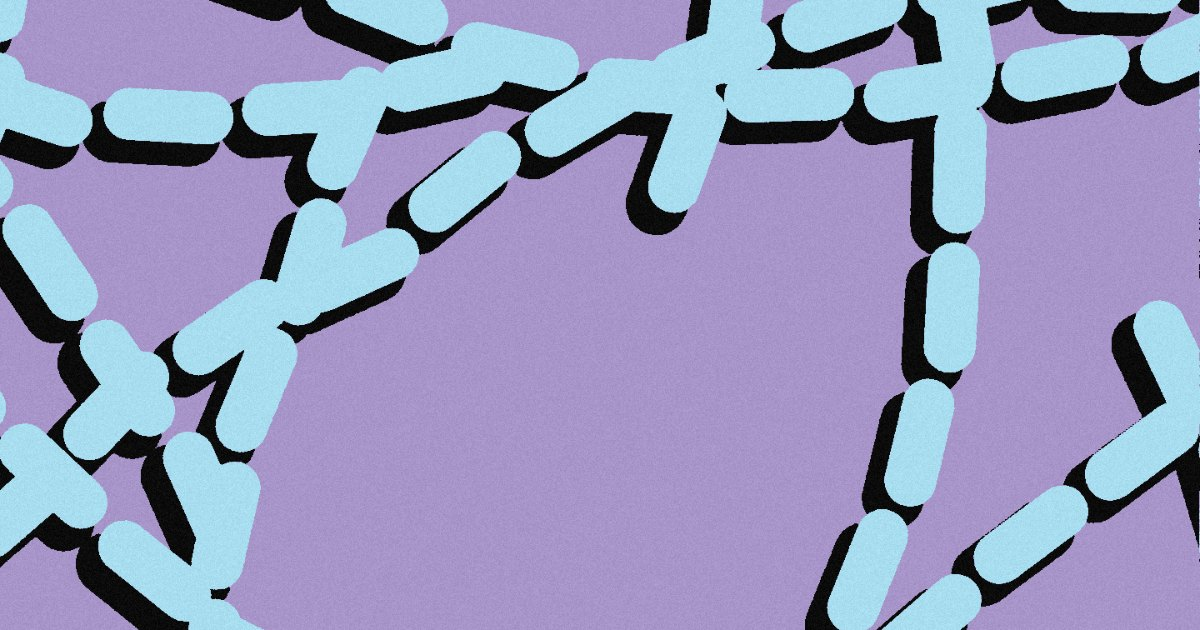
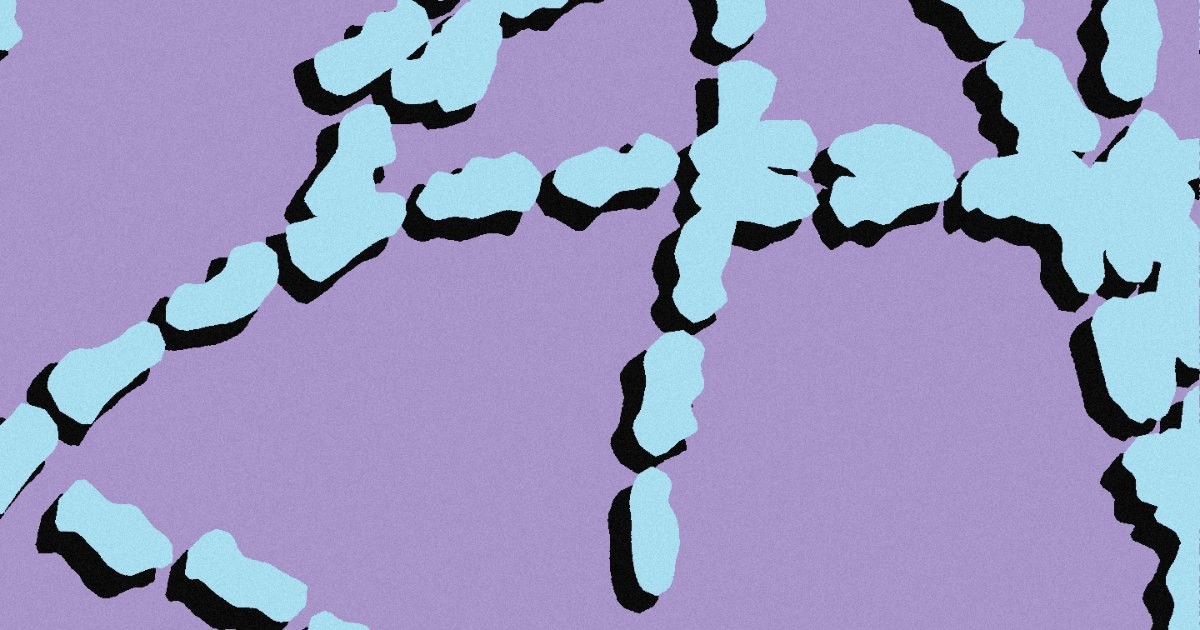
Draw Strand's rods as brush strokes rather than capsules
A stroked line can only ever be one width the whole way along, so the rods
came out machined. Each rod is now filled as its own outline, with the two
edges walked down the axis separately so the shape is never symmetric about
its own middle, ends that are not alike, and a small nudge off the chain's
axis. A Roughness control runs the whole thing from clean capsules to torn.

Claude-Session: https://claude.ai/code/session_01Hb5jk9z6h4o1AzZNFzskh6

diff --git a/strand/index.html b/strand/index.html
@@ -494,7 +494,8 @@ input[type=range]{accent-color:var(--ink)}
     <details class="grp"><summary>Rods</summary><div class="grp-b"><div class="pr"><div class="top"><span class="k">Thickness</span><span class="v" id="thickVal">42%</span></div><div class="track"><input type="range" id="thick" min="0" max="1" step="0.01" value="0.42"></div></div>
         <div class="pr"><div class="top"><span class="k">Rod length</span><span class="v" id="rodVal">50%</span></div><div class="track"><input type="range" id="rod" min="0" max="1" step="0.01" value="0.5"></div></div>
         <div class="pr"><div class="top"><span class="k">Notch</span><span class="v" id="notchVal">18%</span></div><div class="track"><input type="range" id="notch" min="0" max="1" step="0.01" value="0.18"></div></div>
-        <div class="note">Rods are laid end to end along the chain. Notch is the hair left between them: at nothing they fuse into one ribbon, wound up they separate into beads.</div></div></details>
+        <div class="pr"><div class="top"><span class="k">Roughness</span><span class="v" id="roughVal">55%</span></div><div class="track"><input type="range" id="rough" min="0" max="1" step="0.01" value="0.55"></div></div>
+        <div class="note">Rods are laid end to end along the chain. Notch is the hair left between them: at nothing they fuse into one ribbon, wound up they separate into beads. Roughness swells and pinches each rod along its length: at nothing they are clean capsules, wound up they are brush strokes.</div></div></details>
     <details class="grp"><summary>Print</summary><div class="grp-b"><div class="pr"><div class="top"><span class="k">Off-register</span><span class="v" id="offsetVal">50%</span></div><div class="track"><input type="range" id="offset" min="0" max="1" step="0.01" value="0.5"></div></div>
         <div class="pr"><div class="top"><span class="k">Plate spread</span><span class="v" id="edgeVal">35%</span></div><div class="track"><input type="range" id="edge" min="0" max="1" step="0.01" value="0.35"></div></div>
         <div class="pr"><div class="top"><span class="k">Grain</span><span class="v" id="grainVal">42%</span></div><div class="track"><input type="range" id="grain" min="0" max="1" step="0.01" value="0.42"></div></div>
@@ -607,7 +608,7 @@ const PALETTES=[
 const S={
   seed:4, ratio:"3:4",
   count:8, len:22, wander:0.6, branch:0.22,
-  thick:0.42, rod:0.5, notch:0.18,
+  thick:0.42, rod:0.5, notch:0.18, rough:0.55,
   offset:0.5, edge:0.35, grain:0.42,
   pal:PALETTES[0].slice(),
   motion:{on:false,mode:"drift",amount:0.6,fps:12,frames:36},
@@ -671,8 +672,7 @@ function rodsS(aspect){
     let {x,y,a,left,d}=c;
     while(left-->0 && rods.length<ROD_CAP){
       const ca=Math.cos(a), sa=Math.sin(a);
-      const hx=ca*seg/2, hy=sa*seg/2;
-      rods.push([x-hx,y-hy,x+hx,y+hy]);
+      rods.push([x,y,a,seg,(rnd()*9973)|0]);
       const nx=x+ca*step, ny=y+sa*step;
       x=nx; y=ny;
       a+=(rnd()-0.5)*S.wander*0.9;
@@ -695,6 +695,43 @@ function rodsS(aspect){
      back the wrong one made every chain a single fat blob */
   rodCache={rods,wide:wid,fw,fh}; rodKey=key;
   return rodCache;
+}
+
+/* A rod is drawn as its own outline rather than as a stroked line, because a
+   stroke can only ever be one width the whole way along and comes out looking
+   machined. The two edges are walked down the axis separately, each with its
+   own wobble, so the shape is never symmetric about its own middle — that
+   lopsidedness is most of what reads as laid down by hand rather than
+   computed. The ends are not alike either: one is stubbed off where the brush
+   landed, the other drags out where it lifted. At Roughness zero all of it
+   falls away and it is a plain capsule again. */
+function rodPath(g,x,y,a,seg,sd,wid,rough,grow){
+  /* the rod is also nudged off the chain's axis, so a run of them reads as a
+     hand following a line rather than beads threaded onto one */
+  a+=(hshS(sd,17,3)-0.5)*0.42*rough;
+  const ca=Math.cos(a), sa=Math.sin(a), px=-sa, py=ca;
+  const full=seg+wid, half=wid*0.5+grow;
+  const N=18, L=[], R=[];
+  const e0=0.06+hshS(sd,3,7)*0.34*rough;      /* how fast each end opens out */
+  const e1=0.06+hshS(sd,9,7)*0.60*rough;
+  for(let i=0;i<=N;i++){
+    const u=i/N;
+    let cap=Math.min(u/e0,(1-u)/e1,1);
+    cap=Math.pow(cap<0?0:cap,0.45);
+    /* each edge gets its own noise, at a frequency high enough to tear it */
+    const wl=1+(vnS(u*6.1+sd*0.11,sd*0.07,sd)-0.5)*rough*1.3;
+    const wr=1+(vnS(u*5.3+sd*0.17,sd*0.05,sd+911)-0.5)*rough*1.3;
+    const off=(vnS(u*2.2+sd*0.09,7.3,sd+41)-0.5)*wid*0.55*rough;
+    const t=u*full-wid*0.5;
+    const bx=x+ca*t+px*off, by=y+sa*t+py*off;
+    const hl=half*cap*wl, hr=half*cap*wr;
+    L.push([bx+px*hl,by+py*hl]);
+    R.push([bx-px*hr,by-py*hr]);
+  }
+  g.moveTo(L[0][0],L[0][1]);
+  for(let i=1;i<=N;i++) g.lineTo(L[i][0],L[i][1]);
+  for(let i=N;i>=0;i--) g.lineTo(R[i][0],R[i][1]);
+  g.closePath();
 }
 
 let maskCv=null, maskCx=null;
@@ -747,26 +784,28 @@ function paint(c,W,H,f){
   /* the plate first, then the fill straight over it: where both land the fill
      wins, which leaves the plate showing as a thick edge on the side it slid
      towards and a hairline on the other */
-  mx.strokeStyle="#f00"; mx.lineWidth=fat*MS;
+  const rough=S.rough;
+  const grow=(fat-wide)*0.5*MS;
+  mx.fillStyle="#f00";
   mx.beginPath();
   for(const r of rods){
-    const a=put(r[0],r[1],ox,oy), b=put(r[2],r[3],ox,oy);
-    mx.moveTo(a[0],a[1]); mx.lineTo(b[0],b[1]);
+    const p=put(r[0],r[1],ox,oy);
+    rodPath(mx,p[0],p[1],r[2],r[3]*MU,r[4],wide*MS,rough,grow);
   }
-  mx.stroke();
-  mx.strokeStyle="#0f0"; mx.lineWidth=wide*MS;
+  mx.fill();
+  mx.fillStyle="#0f0";
   mx.beginPath();
   for(const r of rods){
-    const a=put(r[0],r[1],0,0), b=put(r[2],r[3],0,0);
-    mx.moveTo(a[0],a[1]); mx.lineTo(b[0],b[1]);
+    const p=put(r[0],r[1],0,0);
+    rodPath(mx,p[0],p[1],r[2],r[3]*MU,r[4],wide*MS,rough,0);
   }
-  mx.stroke();
+  mx.fill();
 
   const src=mx.getImageData(0,0,MW,MH).data;
   const img=c.createImageData(W,H), d=img.data;
   const seed=S.seed|0;
   const g=S.grain;
-  const cut=0.5, spread=0.55*g+0.05;
+  const cut=0.5, spread=0.8*g+0.06;
   const gl=g*46;
   /* the edge noise is sized off the picture, not off the pixel, so a 6000px
      export is the same picture as the preview rather than a finer one */
@@ -1017,6 +1056,7 @@ bindRange("branch",v=>Math.round(v*100)+"%",v=>S.branch=v);
 bindRange("thick",v=>Math.round(v*100)+"%",v=>S.thick=v);
 bindRange("rod",v=>Math.round(v*100)+"%",v=>S.rod=v);
 bindRange("notch",v=>Math.round(v*100)+"%",v=>S.notch=v);
+bindRange("rough",v=>Math.round(v*100)+"%",v=>S.rough=v);
 bindRange("offset",v=>Math.round(v*100)+"%",v=>S.offset=v);
 bindRange("edge",v=>Math.round(v*100)+"%",v=>S.edge=v);
 bindRange("grain",v=>Math.round(v*100)+"%",v=>S.grain=v);
